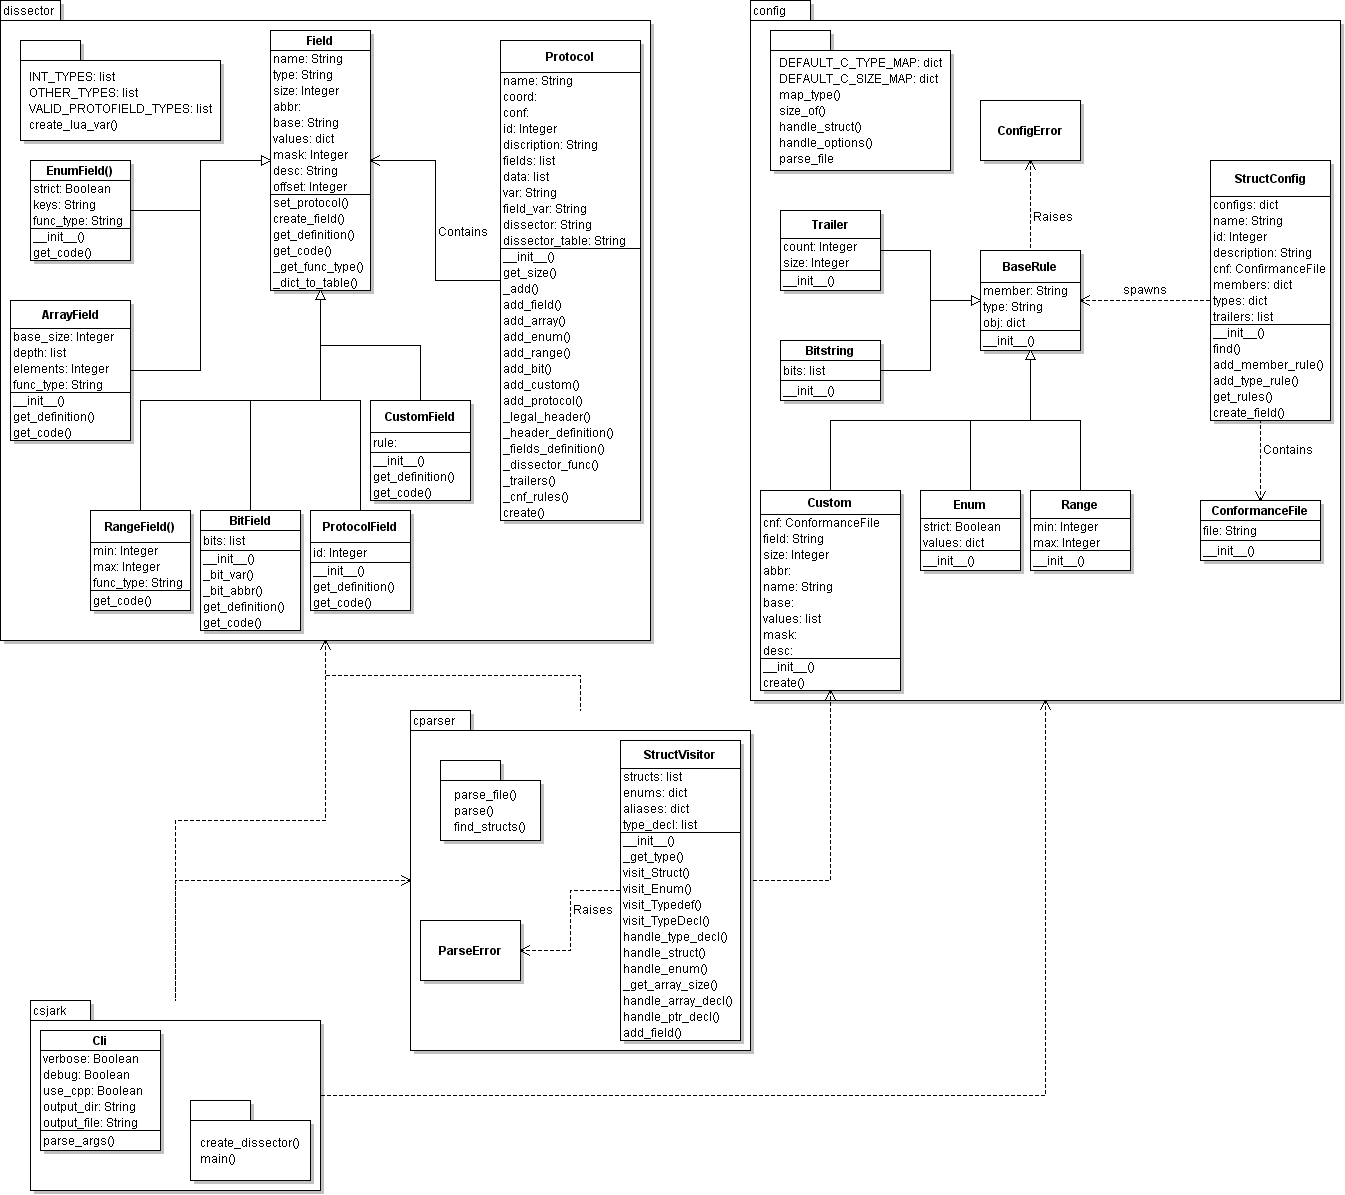
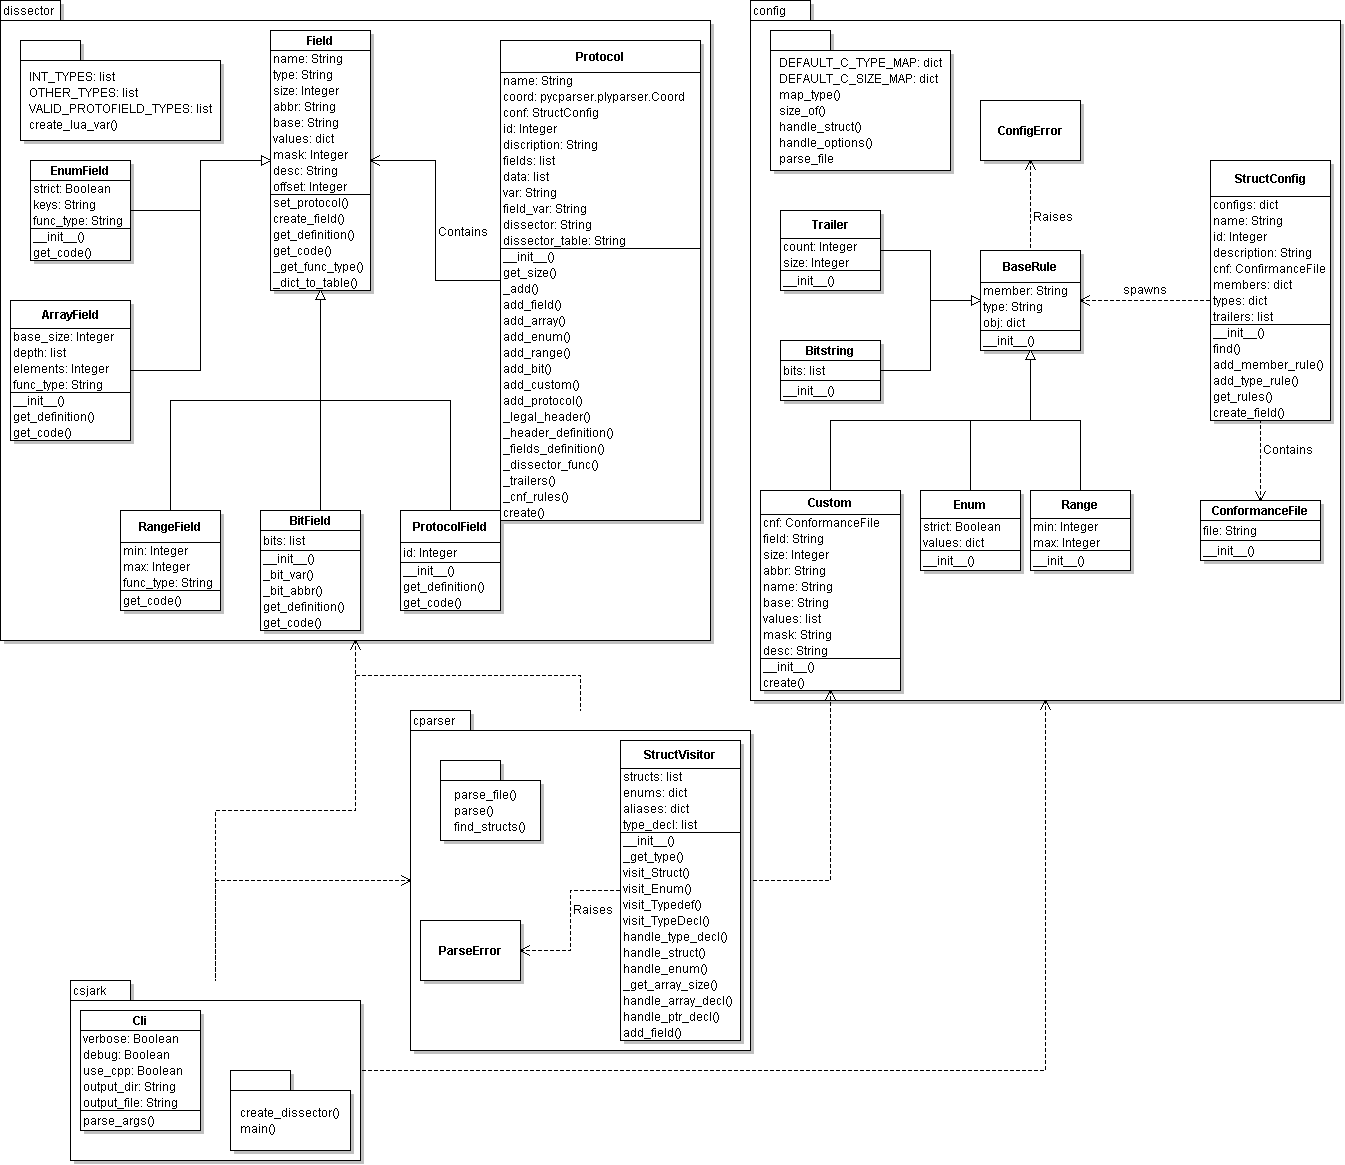
updated parts of the sprint 2 document

diff --git a/report/sprints/sprint2.tex b/report/sprints/sprint2.tex
@@ -335,7 +335,7 @@ This us done by reading the custom Lua file(s) and writing the content to the re
 %----------------------
 \section{System Design}
 %----------------------
-For sprint 2 the team decided to refactor some of the code in order to make it easier to read and to split the functionalities of the utility in such a way that it reduces coupling within the system.Some new functionality was also added on the parser side in order to get the utility to recognize the datatypes mentioned in the sprint 2 backlog. Other than that, there were no other changes or additions made to the design during sprint 2.
+For sprint 2 the team decided to refactor some of the code in order to make it easier to read and to split the functionalities of the utility in such a way that it reduces coupling within the system.Some new functionality was also added on the parser side in order to get the utility to recognize the datatypes mentioned in the sprint 2 backlog. This new functionality is represented in the by the addition of new classes in the dissector and config modules. These classes include the BitField, ArrayField,EnumField and ProtocolField classes, which contain the functionality required to handle Bitstrings, arrays, enums and structs within structs respectively. The classes added to the config module include the Trailer, Bitstring, Custom and Enum classes which handles the configuration needs for structs with trailers, bitstrings, custom handling of data types and enums respectively. Other than that, there were no other changes or additions made to the design during sprint 2.
 
 \subsection{Utility}
 %--------------------
